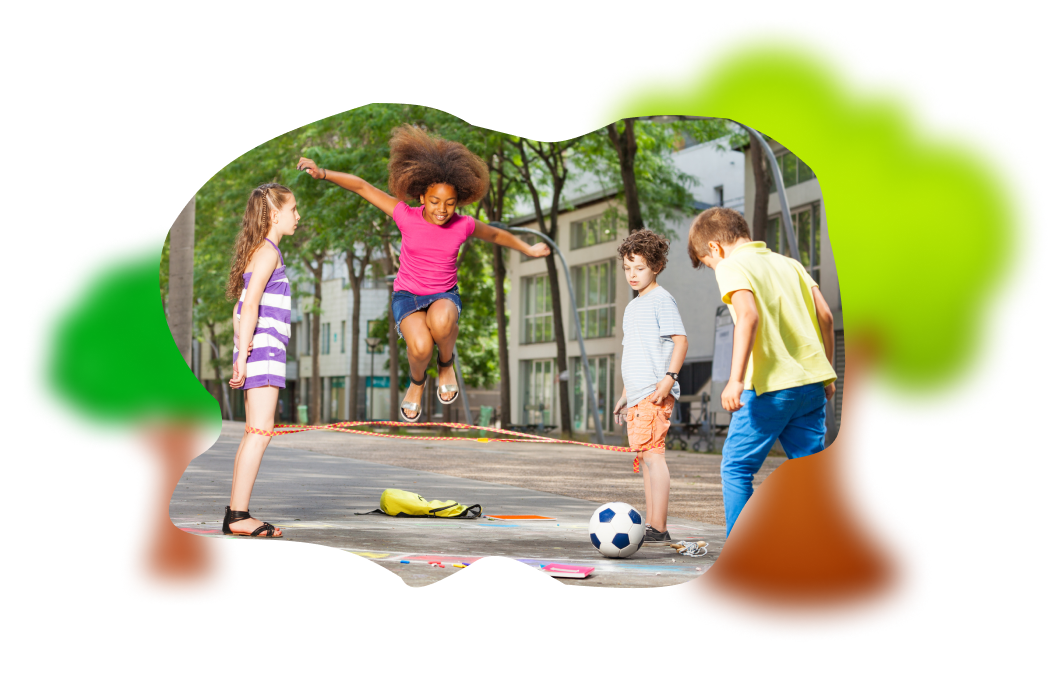
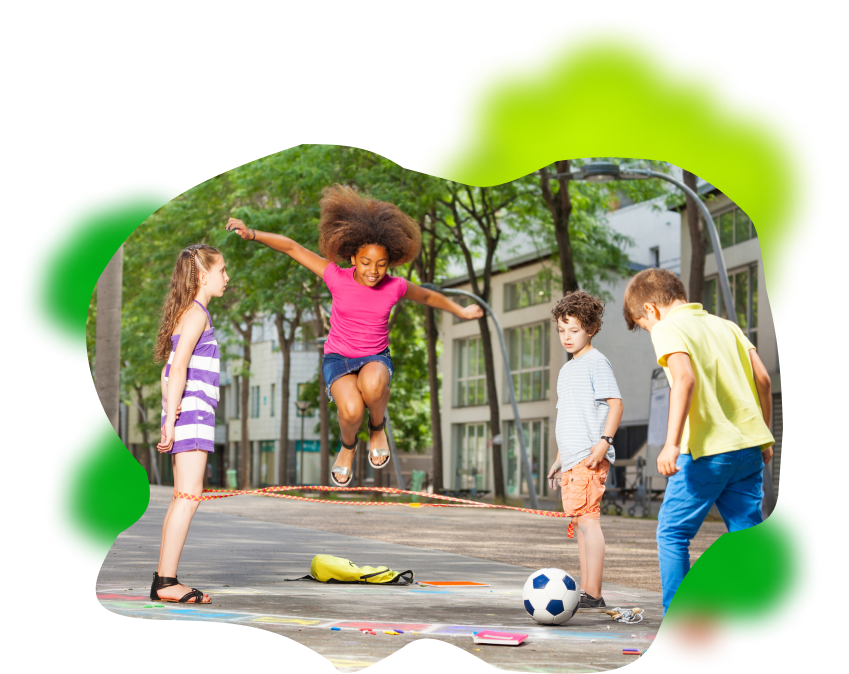
fixing responsive layout

diff --git a/src/pages/HomePage.js b/src/pages/HomePage.js
@@ -6,8 +6,8 @@ import styles from "./HomePage.module.css";
 function HomePage() {
   return (
     <>
-      <div className={styles.content_card}>
-        <img className={styles.logoplanet} src={logoplaneta} alt="Logotipo Planeta OMBR" />
+      <div className={styles.content_card_tr}>
+        <img className={styles.picture_left} src={logoplaneta} alt="Logotipo Planeta OMBR" />
         <div className={styles.content_text_area}>
           <h2>O Instituto e a Comunidade</h2>
           <p>
@@ -18,19 +18,19 @@ function HomePage() {
         </div>
       </div>
 
-      <div className={styles.content_card}>
+      <div className={styles.content_card_tl}>
         <div className={styles.content_text_area_2}>
           <h2>Acesso ao Lazer em frente de Casa!</h2>
           <p>
             Neste dia das Crianças o que não vai faltar é atividade! Muita música, brinquedos como Pula-pula, piscina de bolinhas, Cama-Elástica. Animadores vestidos de Personagens, alimentação, além de todo apoio da Equipe de Primeiros-Socorros e nossos colaboradores. Venham fazer parte e doar conhecimento e ajuda para que juntos possamos continuar transformando nossa comunidade com vida!
           </p>
         </div>
-        <img className={styles.frentedecasa} src={frentedecasa} alt="Logotipo Planeta OMBR" />
+        <img className={styles.picture_right} src={frentedecasa} alt="Logotipo Planeta OMBR" />
       </div>
 
-      <div className={styles.content_card}>
-        <img className={styles.logoplanet} src={donation} alt="Logotipo Planeta OMBR" />
-        <div className={styles.text_donation}>
+      <div className={styles.content_card_tr}>
+        <img className={styles.picture_left} src={donation} alt="Logotipo Planeta OMBR" />
+        <div className={styles.content_text_area}>
           <h2>Saiba como contribuir com nossa ação!!!</h2>
           <p>
             Dê força ao nosso projeto, seja um parceiro, seja também um agente que promove a mudança, que promove o progresso! Seja com alimentos para distribuição, brinquedos em bom estado, roupas em bom estado e também recursos, dos quais farão a grande diferença!!!

diff --git a/src/pages/HomePage.module.css b/src/pages/HomePage.module.css
@@ -1,4 +1,4 @@
-.content_card {
+.content_card_tr {
   width: 80%;
   margin: 0 auto;
   background-color: #efefef;
@@ -9,8 +9,19 @@
   justify-content: center;
   box-sizing: border-box;
 }
+.content_card_tl {
+  width: 80%;
+  margin: 0 auto;
+  background-color: #efefef;
+  display: flex;
+  flex-direction: row;
+  flex-wrap: wrap-reverse;
+  align-items: center;
+  justify-content: center;
+  box-sizing: border-box;
+}
 
-.logoplanet {
+.picture_left {
   width: 40%;
   min-width: 300px;
   margin-top: 30px;
@@ -19,7 +30,7 @@
   border-radius: 20px;
 }
 
-.frentedecasa {
+.picture_right {
   width: 60%;
   min-width: 300px;
   margin-top: 30px;
@@ -27,6 +38,7 @@
   pointer-events: none;
   border-radius: 20px;
 }
+
 
 .content_text_area>p,
 .content_text_area>h2 {
@@ -54,26 +66,9 @@
 
 
 .content_text_area>h2,
-.content_text_area2>h2,
-.text_donation {
+.content_text_area2>h2 {
   margin-top: 40px;
   margin-left: 30px;
   margin-bottom: 26px;
 }
 
-.text_donation>h2,
-.text_donation>p {
-  width: 360px;
-  margin-bottom: 40px;
-  font-family: 'Oregano', cursive;
-  color: #26158A;
-  text-align: left;
-}
-
-.text_donation>h2 {
-  font-size: 2.2em;
-}
-
-.text_donation>p {
-  font-size: 1.6em;
-}
